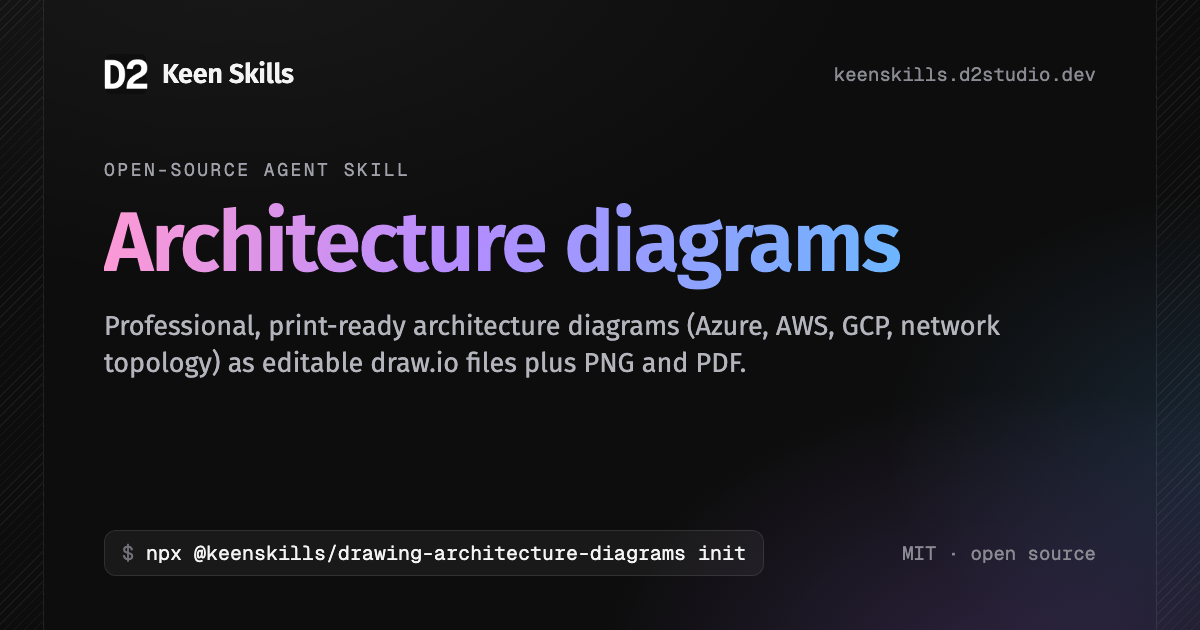
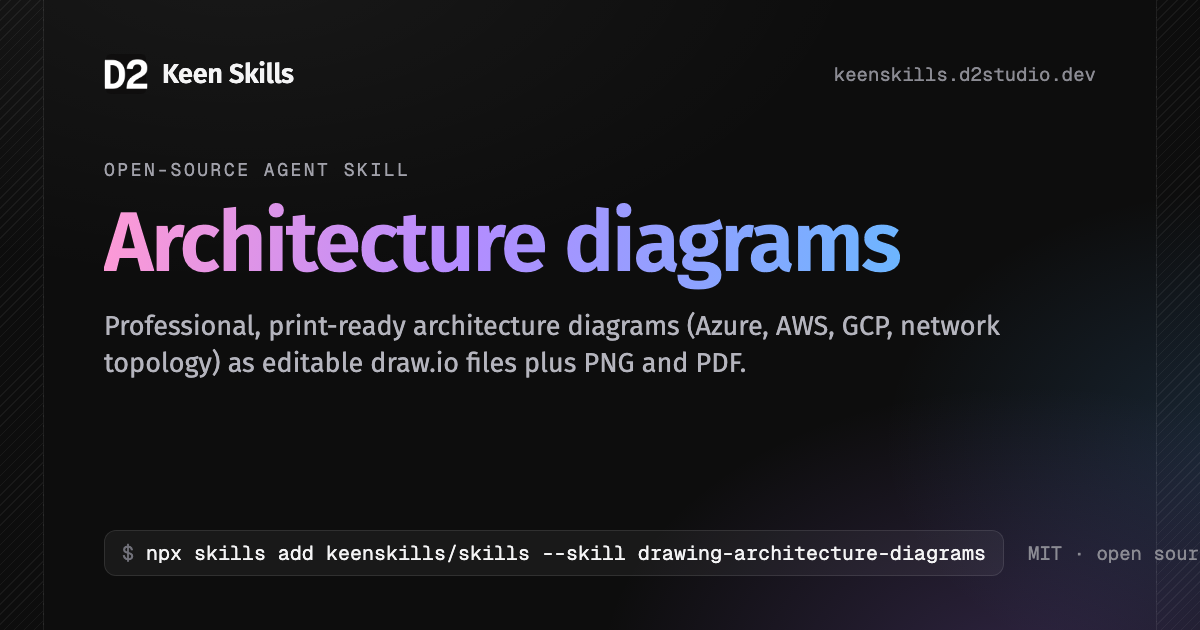
Lead install guides with the skills CLI so installs count on skills.sh
Every install guide now starts with npx skills add keenskills/skills --skill <skill>
(root README, package READMEs, site cards, skill pages, How to use, social cards and
the copied prompt), keeping npx @keenskills/<skill> init as the second option. The
root README lists the third skill and shows one result per skill. The design
document skill says how to install its Python libraries, since the skills CLI copies
only the skill folder. The weekly install count shows only from 100 a week.
publish.yml now creates a GitHub Release from the CHANGELOG after publishing.

Changed region(s): [[0.1542, 0.8444, 1.0, 0.9048]]

diff --git a/apps/site/app/how-to-use/page.tsx b/apps/site/app/how-to-use/page.tsx
@@ -11,7 +11,7 @@ export default function HowToUse() {
     <div className="py-12">
       <h1 className="text-3xl font-semibold tracking-tight">How to use</h1>
       <p className="mt-3 max-w-2xl text-muted text-pretty">
-        Each skill is its own npm package. Run init in your project: it finds the agents you use and installs the skill in each one’s format. Nothing else changes.
+        Install a skill with the skills CLI, which works for Claude Code, Codex, Cursor, Gemini CLI and more. Each skill is also its own npm package: run its init in your project and it finds the agents you use and installs the skill in each one’s format. Nothing else changes.
       </p>
 
       {skills.map((s) => (
@@ -20,7 +20,8 @@ export default function HowToUse() {
             {s.title}
           </h2>
           <div className="mt-4 grid gap-4">
-            <PmCommand pkg={s.name} args="init" label="This project, for the agents it uses" name="install" />
+            <PmCommand pkg="skills" args={`add keenskills/skills --skill ${s.pkg}`} label="With the skills CLI, for the agents you pick" name="install" />
+            <PmCommand pkg={s.name} args="init" label="Or with its own installer, for the agents this project uses" name="init" switcher={false} />
             <PmCommand pkg={s.name} args="init --global" label="Claude Code, in every project" name="global" switcher={false} />
             <PmCommand pkg={s.name} args="init --agent claude,cursor" label="Pick the agents yourself" name="agents" switcher={false} />
             <PmCommand pkg={s.name} args="init --dry-run" label="See the plan first, write nothing" name="dry-run" switcher={false} />

diff --git a/apps/site/components/skill-card.tsx b/apps/site/components/skill-card.tsx
@@ -3,6 +3,9 @@ import type { Skill } from '@/lib/content'
 import { Count } from './count'
 import { PmCommand } from './pm-command'
 
+// A small weekly count works against the skill, so it stays hidden until it is worth showing.
+const SHOW_DOWNLOADS_FROM = 100
+
 // One full-width row per skill, so the longest install command fits on one line.
 export function SkillCard({ skill }: { skill: Skill }) {
   return (
@@ -15,13 +18,13 @@ export function SkillCard({ skill }: { skill: Skill }) {
       </div>
       <div className="-mt-2">
         <p className="max-w-2xl text-sm text-muted text-pretty">{skill.summary}</p>
-        {skill.downloads !== null ? (
+        {skill.downloads !== null && skill.downloads >= SHOW_DOWNLOADS_FROM ? (
           <p className="mt-2 text-xs text-muted">
             <Count value={skill.downloads} /> installs last week
           </p>
         ) : null}
       </div>
-      <PmCommand pkg={skill.name} args="init" label="Install in your project" />
+      <PmCommand pkg="skills" args={`add keenskills/skills --skill ${skill.pkg}`} label="Install in your project" />
     </article>
   )
 }

diff --git a/apps/site/app/[skill]/page.tsx b/apps/site/app/[skill]/page.tsx
@@ -72,7 +72,8 @@ export default async function SkillPage({ params }: Props) {
           install: (
             <div className="grid gap-5">
               <h2 className="text-xl font-semibold tracking-tight">Install &amp; usage</h2>
-              <PmCommand pkg={skill.name} args="init" label="This project, for the agents it uses" name="install" />
+              <PmCommand pkg="skills" args={`add keenskills/skills --skill ${skill.pkg}`} label="With the skills CLI, for the agents you pick" name="install" />
+              <PmCommand pkg={skill.name} args="init" label="Or with its own installer, for the agents this project uses" name="init" switcher={false} />
               <PmCommand pkg={skill.name} args="init --dry-run" label="See the plan first, write nothing" name="dry-run" switcher={false} />
               <CodeCommand label="As a Claude Code plugin" command={`/plugin marketplace add keenskills/skills\n/plugin install ${skill.pkg}@keenskills`} />
               <Link href="/how-to-use" className="text-sm font-medium text-accent hover:underline">

diff --git a/apps/site/components/skill-header.tsx b/apps/site/components/skill-header.tsx
@@ -15,7 +15,7 @@ export function SkillHeader({ skill }: { skill: Skill }) {
         <p className="text-sm text-muted">Paste it into Claude Code, Cursor or Codex.</p>
       </div>
       <div className="mt-6 max-w-xl">
-        <PmCommand pkg={skill.name} args="init" label="Install in your project" />
+        <PmCommand pkg="skills" args={`add keenskills/skills --skill ${skill.pkg}`} label="Install in your project" />
       </div>
       <ul className="mt-4 flex flex-wrap gap-4 text-sm">
         <li>

diff --git a/README.md b/README.md
@@ -1,19 +1,37 @@
 # Keen Skills
 
-Agent skills by rajaaltus and gjohnpaull. Each skill is its own package: install only the ones you want.
+Agent skills for Claude Code, Codex, Cursor, Gemini CLI and other coding agents, by rajaaltus and gjohnpaull. Each skill is its own package: install only the ones you want.
 
 Docs and install guide: https://keenskills.d2studio.dev
 
 | Skill | What it does | Install |
 | --- | --- | --- |
-| [page-as-data](packages/page-as-data) | Read a web page as data instead of a screenshot: what is on screen, what broke behind it, and layout defects at phone and desktop widths. | `npx @keenskills/page-as-data init` |
-| [drawing-architecture-diagrams](packages/drawing-architecture-diagrams) | Professional, print-ready architecture diagrams as editable draw.io files plus PNG and PDF. | `npx @keenskills/drawing-architecture-diagrams init` |
+| [page-as-data](packages/page-as-data) | Read a web page as data instead of a screenshot: what is on screen, what broke behind it, and layout defects at phone and desktop widths. | `npx skills add keenskills/skills --skill page-as-data` |
+| [drawing-architecture-diagrams](packages/drawing-architecture-diagrams) | Professional, print-ready architecture diagrams as editable draw.io files plus PNG and PDF. | `npx skills add keenskills/skills --skill drawing-architecture-diagrams` |
+| [writing-design-documents](packages/writing-design-documents) | Client-facing design documents in Word on the client's own template, checked until nothing reads as machine-made. | `npx skills add keenskills/skills --skill writing-design-documents` |
+
+Each skill is also an npm package with its own installer: `npx @keenskills/<skill> init`.
+
+## What they make
+
+A page read as data, not pixels:
+
+![page-as-data output next to a screenshot](https://raw.githubusercontent.com/keenskills/skills/main/packages/page-as-data/docs/diagram/how-it-helps.png)
+
+An A4 architecture diagram from one prompt:
+
+![Fictional event-driven order platform on A4](https://raw.githubusercontent.com/keenskills/skills/main/packages/drawing-architecture-diagrams/docs/sample-a4.png)
+
+A design document page on a client template:
+
+![Fictional Contoso network security design](https://raw.githubusercontent.com/keenskills/skills/main/packages/writing-design-documents/docs/sample-page.png)
 
 ## Claude Code
 
     /plugin marketplace add keenskills/skills
     /plugin install page-as-data@keenskills
     /plugin install drawing-architecture-diagrams@keenskills
+    /plugin install writing-design-documents@keenskills
 
 ## License
 

diff --git a/docs/superpowers/progress.md b/docs/superpowers/progress.md
@@ -44,3 +44,8 @@ Known: the site job's palette test (`tests/tokens.test.mjs`, "match the referenc
 Each phase: spec → plan with `superpowers:writing-plans` → user picks **native** execution (`superpowers:executing-plans`) → work on a branch, ledger in the git-ignored `.superpowers/sdd/<plan>/progress.md` → fresh Opus reviewer on the whole branch → fix Critical/Important with a failing test first → user confirms outward steps (push, tag, publish, Vercel) → fast-forward `main`.
 
 Release: from the package folder `npm version <patch|minor|major> --no-git-tag-version`, add a `## <version>` entry to its `CHANGELOG.md`, commit, then `git tag -a <package>@v<version> -m "<package> <version>"` and `git push --follow-tags`.
+
+## Growth runbook (2026-10-17)
+
+From the "Keen Skills growth runbook" artifact. Done: repo description and 17 topics; GitHub Releases for all four tags (page-as-data 0.2.1 is Latest); `publish.yml` now creates a release from the CHANGELOG section after `npm publish` (`contents: write`); every install guide (root README, package READMEs, site cards, skill pages, How to use, OG cards, copied prompt) leads with `npx skills add keenskills/skills --skill <skill>` so installs count on skills.sh, with `npx @keenskills/<skill> init` second; the writing-design-documents SKILL.md says how to install its Python libraries (the skills CLI copies only the skill folder); the root README lists the third skill and shows one result per skill; the weekly install count shows only from 100.
+Still to do by hand: social preview image (Settings > General, `apps/site/public/og/home.png`), pin the repo on the org and personal profiles, optional `keenskills/.github` org profile, Search Console + Bing sitemap, a measured screenshot-vs-read comparison at the top of the page-as-data README, then the directory submissions and per-skill launch posts (runbook steps 5 and 6).

diff --git a/packages/writing-design-documents/skills/writing-design-documents/SKILL.md b/packages/writing-design-documents/skills/writing-design-documents/SKILL.md
@@ -13,6 +13,9 @@ what makes a document look machine-made or reveals how the facts were collected.
 **Core rule:** the client reads a design, not a log of your session. State every fact as the configuration
 *as of a date*. Never write how it was obtained.
 
+## Setup
+Needs Python 3.9 or newer with `pip install python-docx pymupdf`. `finalize` needs Microsoft Word on Windows.
+
 ## Workflow
 1. **Facts.** Record each as current configuration. Anything unknown becomes "to be confirmed by <team>".
 2. **Figures.** Draw with the `drawing-architecture-diagrams` skill. Export figure-only images (`frame_content()`) and put

diff --git a/packages/writing-design-documents/README.md b/packages/writing-design-documents/README.md
@@ -29,6 +29,12 @@ vocabulary, empty pages, table titles separated from their table, and captions s
 ## Install
 
 ```bash
+npx skills add keenskills/skills --skill writing-design-documents   # with the skills CLI (skills.sh), for the agents you pick
+```
+
+Or with this package's own installer:
+
+```bash
 npx @keenskills/writing-design-documents init            # this project, for the agents it uses
 npx @keenskills/writing-design-documents init --global   # Claude Code, every project
 npx @keenskills/writing-design-documents doctor          # check Python, python-docx, pymupdf and Word

diff --git a/packages/drawing-architecture-diagrams/README.md b/packages/drawing-architecture-diagrams/README.md
@@ -29,6 +29,12 @@ requires viewing the rendered PNG.
 ## Install
 
 ```bash
+npx skills add keenskills/skills --skill drawing-architecture-diagrams   # with the skills CLI (skills.sh), for the agents you pick
+```
+
+Or with this package's own installer:
+
+```bash
 npx @keenskills/drawing-architecture-diagrams init            # this project, for the agents it uses
 npx @keenskills/drawing-architecture-diagrams init --global   # Claude Code, every project
 npx @keenskills/drawing-architecture-diagrams doctor          # check Python and draw.io

diff --git a/packages/page-as-data/README.md b/packages/page-as-data/README.md
@@ -188,7 +188,15 @@ Chrome, bad URL, a step could not find its control).
 ## Install as an agent skill
 
 One command teaches the coding agents in a project to read screens with
-`page-as-data` instead of taking screenshots:
+`page-as-data` instead of taking screenshots. With the
+[skills CLI](https://skills.sh), for Claude Code, Codex, Cursor, Gemini CLI and
+more:
+
+```sh
+npx skills add keenskills/skills --skill page-as-data
+```
+
+Or with this package's own installer:
 
 ```sh
 npx @keenskills/page-as-data init
